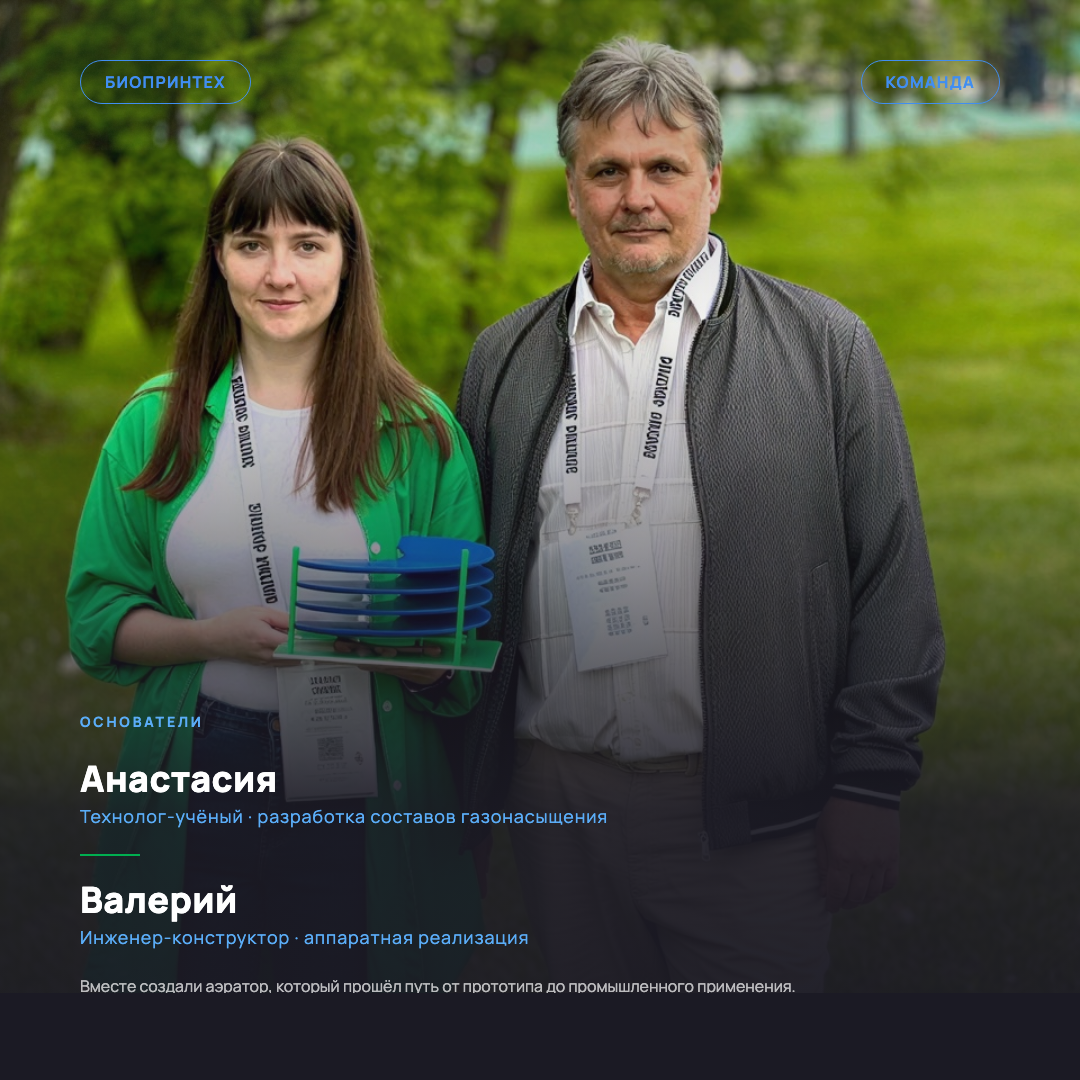
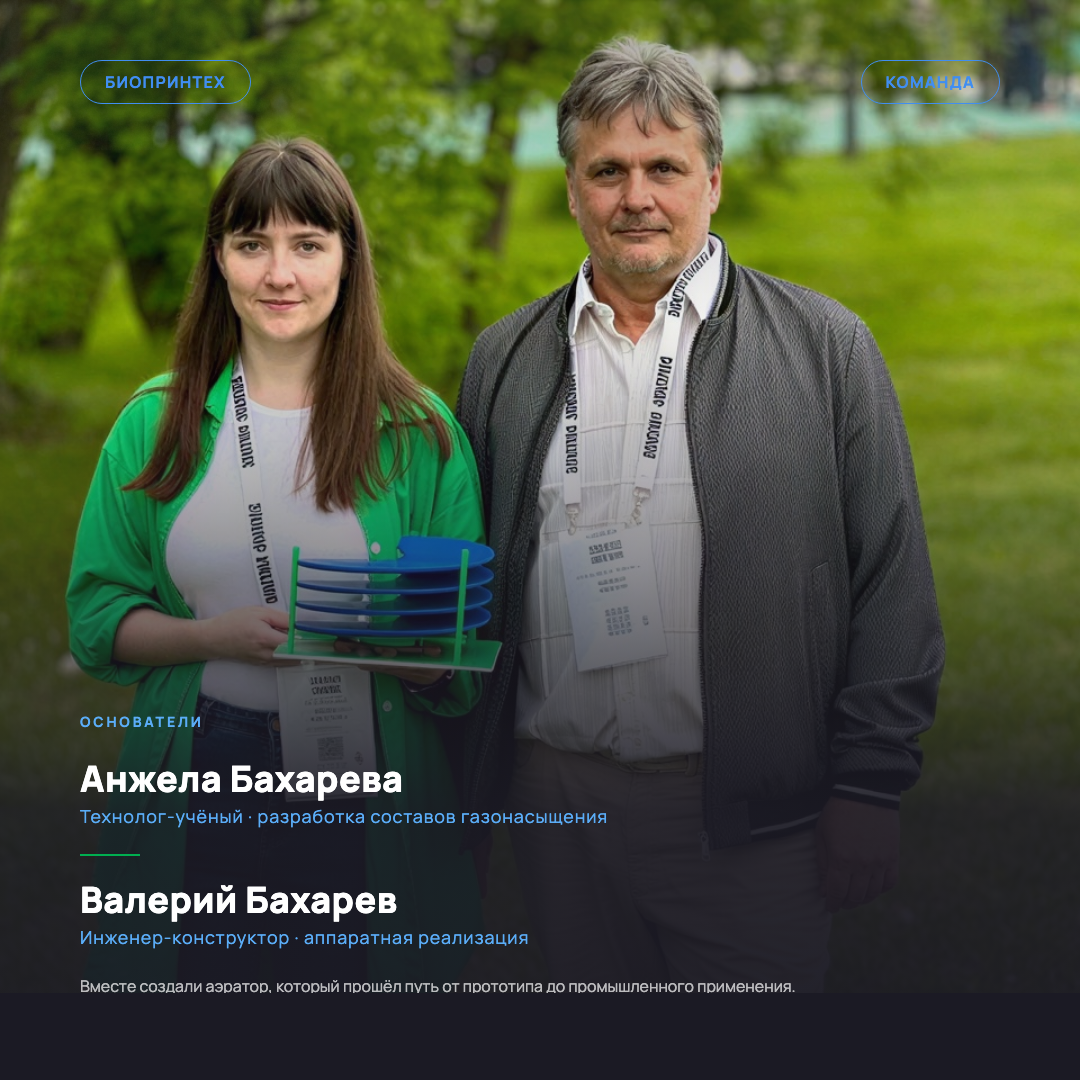
posts: fix founders names → Анжела и Валерий Бахаревы — Bioprintex_Limatex

Changed region(s): [[0.1222, 0.7028, 0.3667, 0.7333], [0.2139, 0.825, 0.3667, 0.8556]]

diff --git a/projects/Bioprintex_Limatex/posts/drafts/27_04_2026-1/slide_02.html b/projects/Bioprintex_Limatex/posts/drafts/27_04_2026-1/slide_02.html
@@ -211,14 +211,14 @@
     <div class="section-label">Основатели</div>
 
     <div class="founder">
-      <div class="founder-name">Анастасия</div>
+      <div class="founder-name">Анжела Бахарева</div>
       <div class="founder-role">Технолог-учёный · разработка составов газонасыщения</div>
     </div>
 
     <div class="separator"></div>
 
     <div class="founder">
-      <div class="founder-name">Валерий</div>
+      <div class="founder-name">Валерий Бахарев</div>
       <div class="founder-role">Инженер-конструктор · аппаратная реализация</div>
     </div>
 

diff --git a/projects/Bioprintex_Limatex/posts/drafts/27_04_2026-1/post.md b/projects/Bioprintex_Limatex/posts/drafts/27_04_2026-1/post.md
@@ -12,8 +12,8 @@
 
 ## Слайд 2 — Основатели
 
-Настя — технолог и учёный, разрабатывает составы газонасыщения под конкретные задачи клиента.
-Валерий — инженер-конструктор, отвечает за аппаратную реализацию.
+Анжела Бахарева — технолог и учёный, разрабатывает составы газонасыщения под конкретные задачи клиента.
+Валерий Бахарев — инженер-конструктор, отвечает за аппаратную реализацию.
 
 Вместе создали аэратор, который прошёл путь от прототипа до промышленного применения.
 
@@ -44,7 +44,7 @@
 
 Биопринтех — это компания «Лиматех», разработчик аэрационных технологий для аквакультуры и промышленных предприятий.
 
-Основатели — технолог Анастасия и инженер Валерий — с 2021 года превращают R&D в готовые аппаратные решения. В том году команда выиграла Акселератор технологических стартапов Сколково (ХМАО-Югра) с грантом 2 000 000 ₽, представила прототип на Startup Village и получила признание на innofood 🔬
+Основатели — технолог Анжела Бахарева и инженер Валерий Бахарев — с 2021 года превращают R&D в готовые аппаратные решения. В том году команда выиграла Акселератор технологических стартапов Сколково (ХМАО-Югра) с грантом 2 000 000 ₽, представила прототип на Startup Village и получила признание на innofood 🔬
 
 Флагманские разработки: аэратор ЗГ снижает себестоимость кислорода в аквакультуре с 3–5 до 0,8 руб/м³ при трёхкратном росте плотности посадки. Аэратор МГ обеспечивает очистку промышленных стоков до 95% и снижает экологические платежи на 20%.
 
